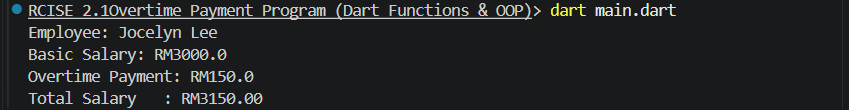
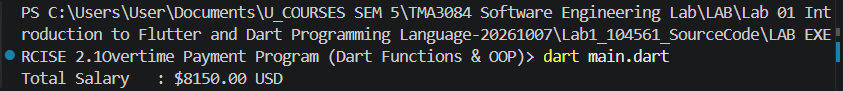
make changes to code

diff --git a/LAB EXERCISE 2.1Overtime Payment Program (Dart Functions & OOP)/main.dart b/LAB EXERCISE 2.1Overtime Payment Program (Dart Functions & OOP)/main.dart
@@ -1,13 +1,13 @@
 import 'myLib.dart';
 
 void main() {
-  var emp = Employee('Jocelyn Lee', 3000.00, 20.00, 5);
+  var emp = Employee('Jocelyn Lee', 8000.00, 20.00, 5);
 
   double overtime = emp.calculateOvertimePayment();
   double totalSalary = emp.calculateTotalSalary();
 
-  print('Employee: ${emp.name}');
-  print('Basic Salary: RM${emp.basicSalary}');
-  print('Overtime Payment: RM${overtime}');
-  print('Total Salary   : RM${totalSalary.toStringAsFixed(2)}');
+  // print('Employee: ${emp.name}');
+  // print('Basic Salary: \$${emp.basicSalary} USD');
+  // print('Overtime Payment: \$${overtime} USD');
+  print('Total Salary   : \$${totalSalary.toStringAsFixed(2)} USD');
 }
